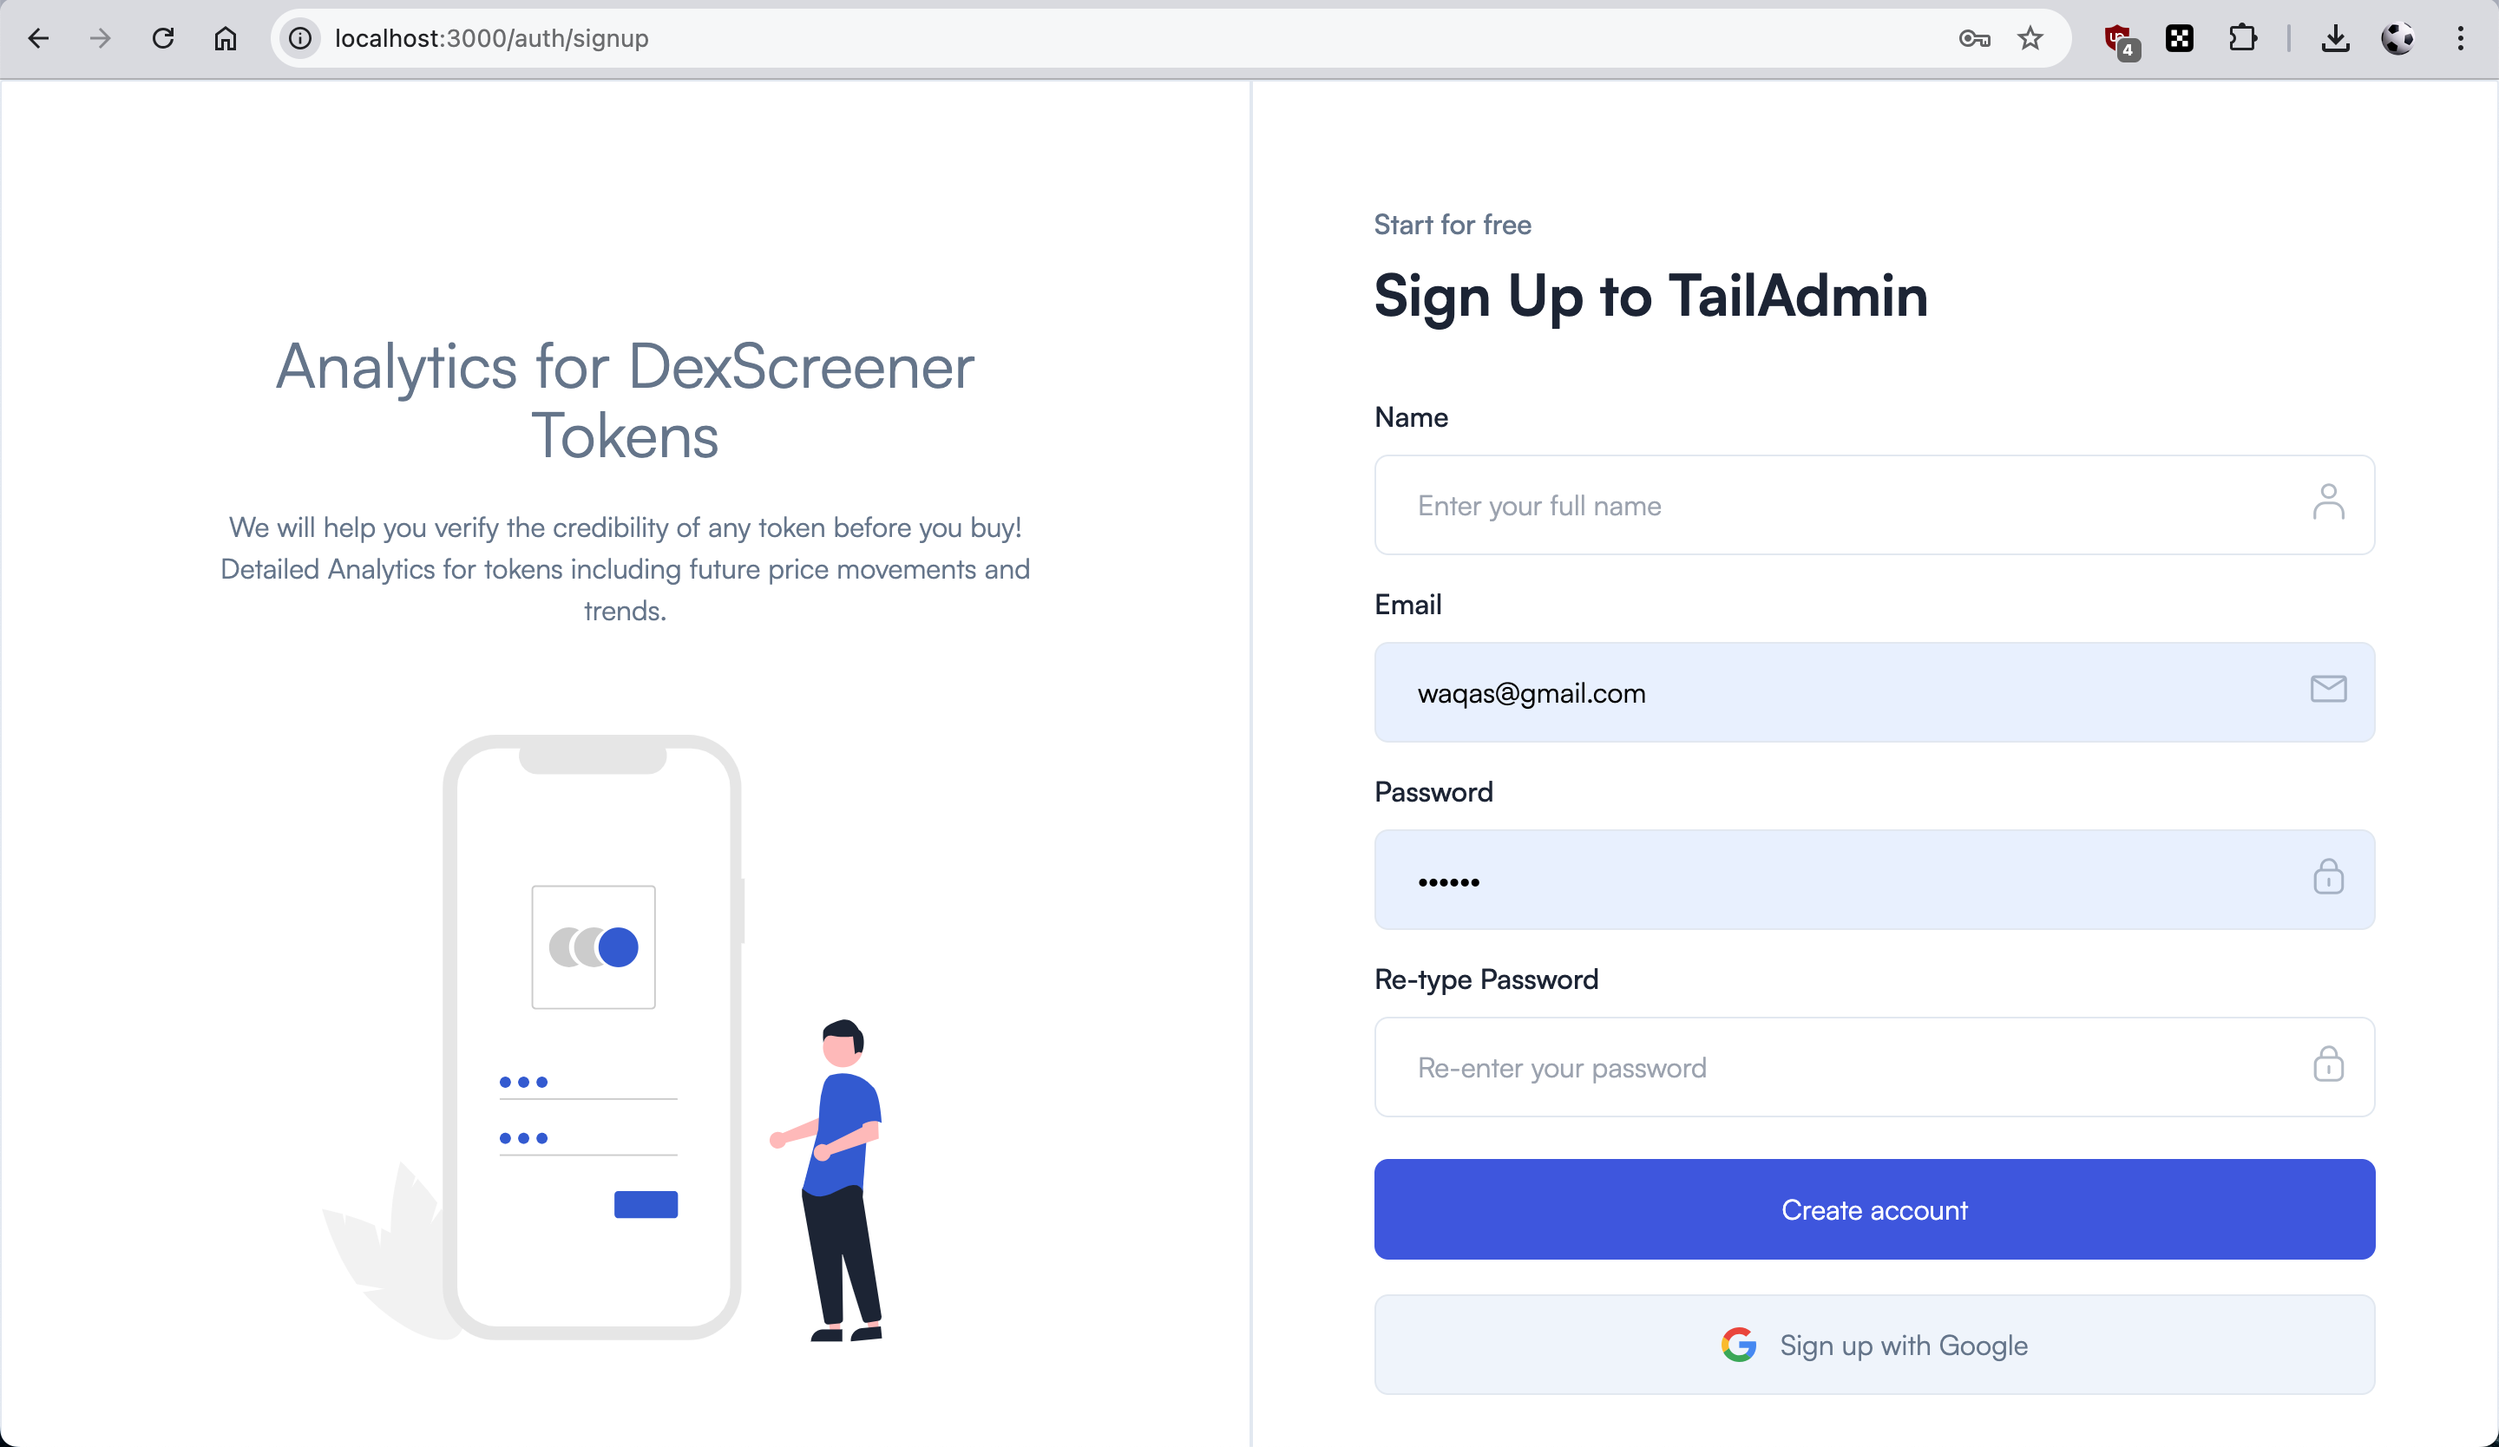
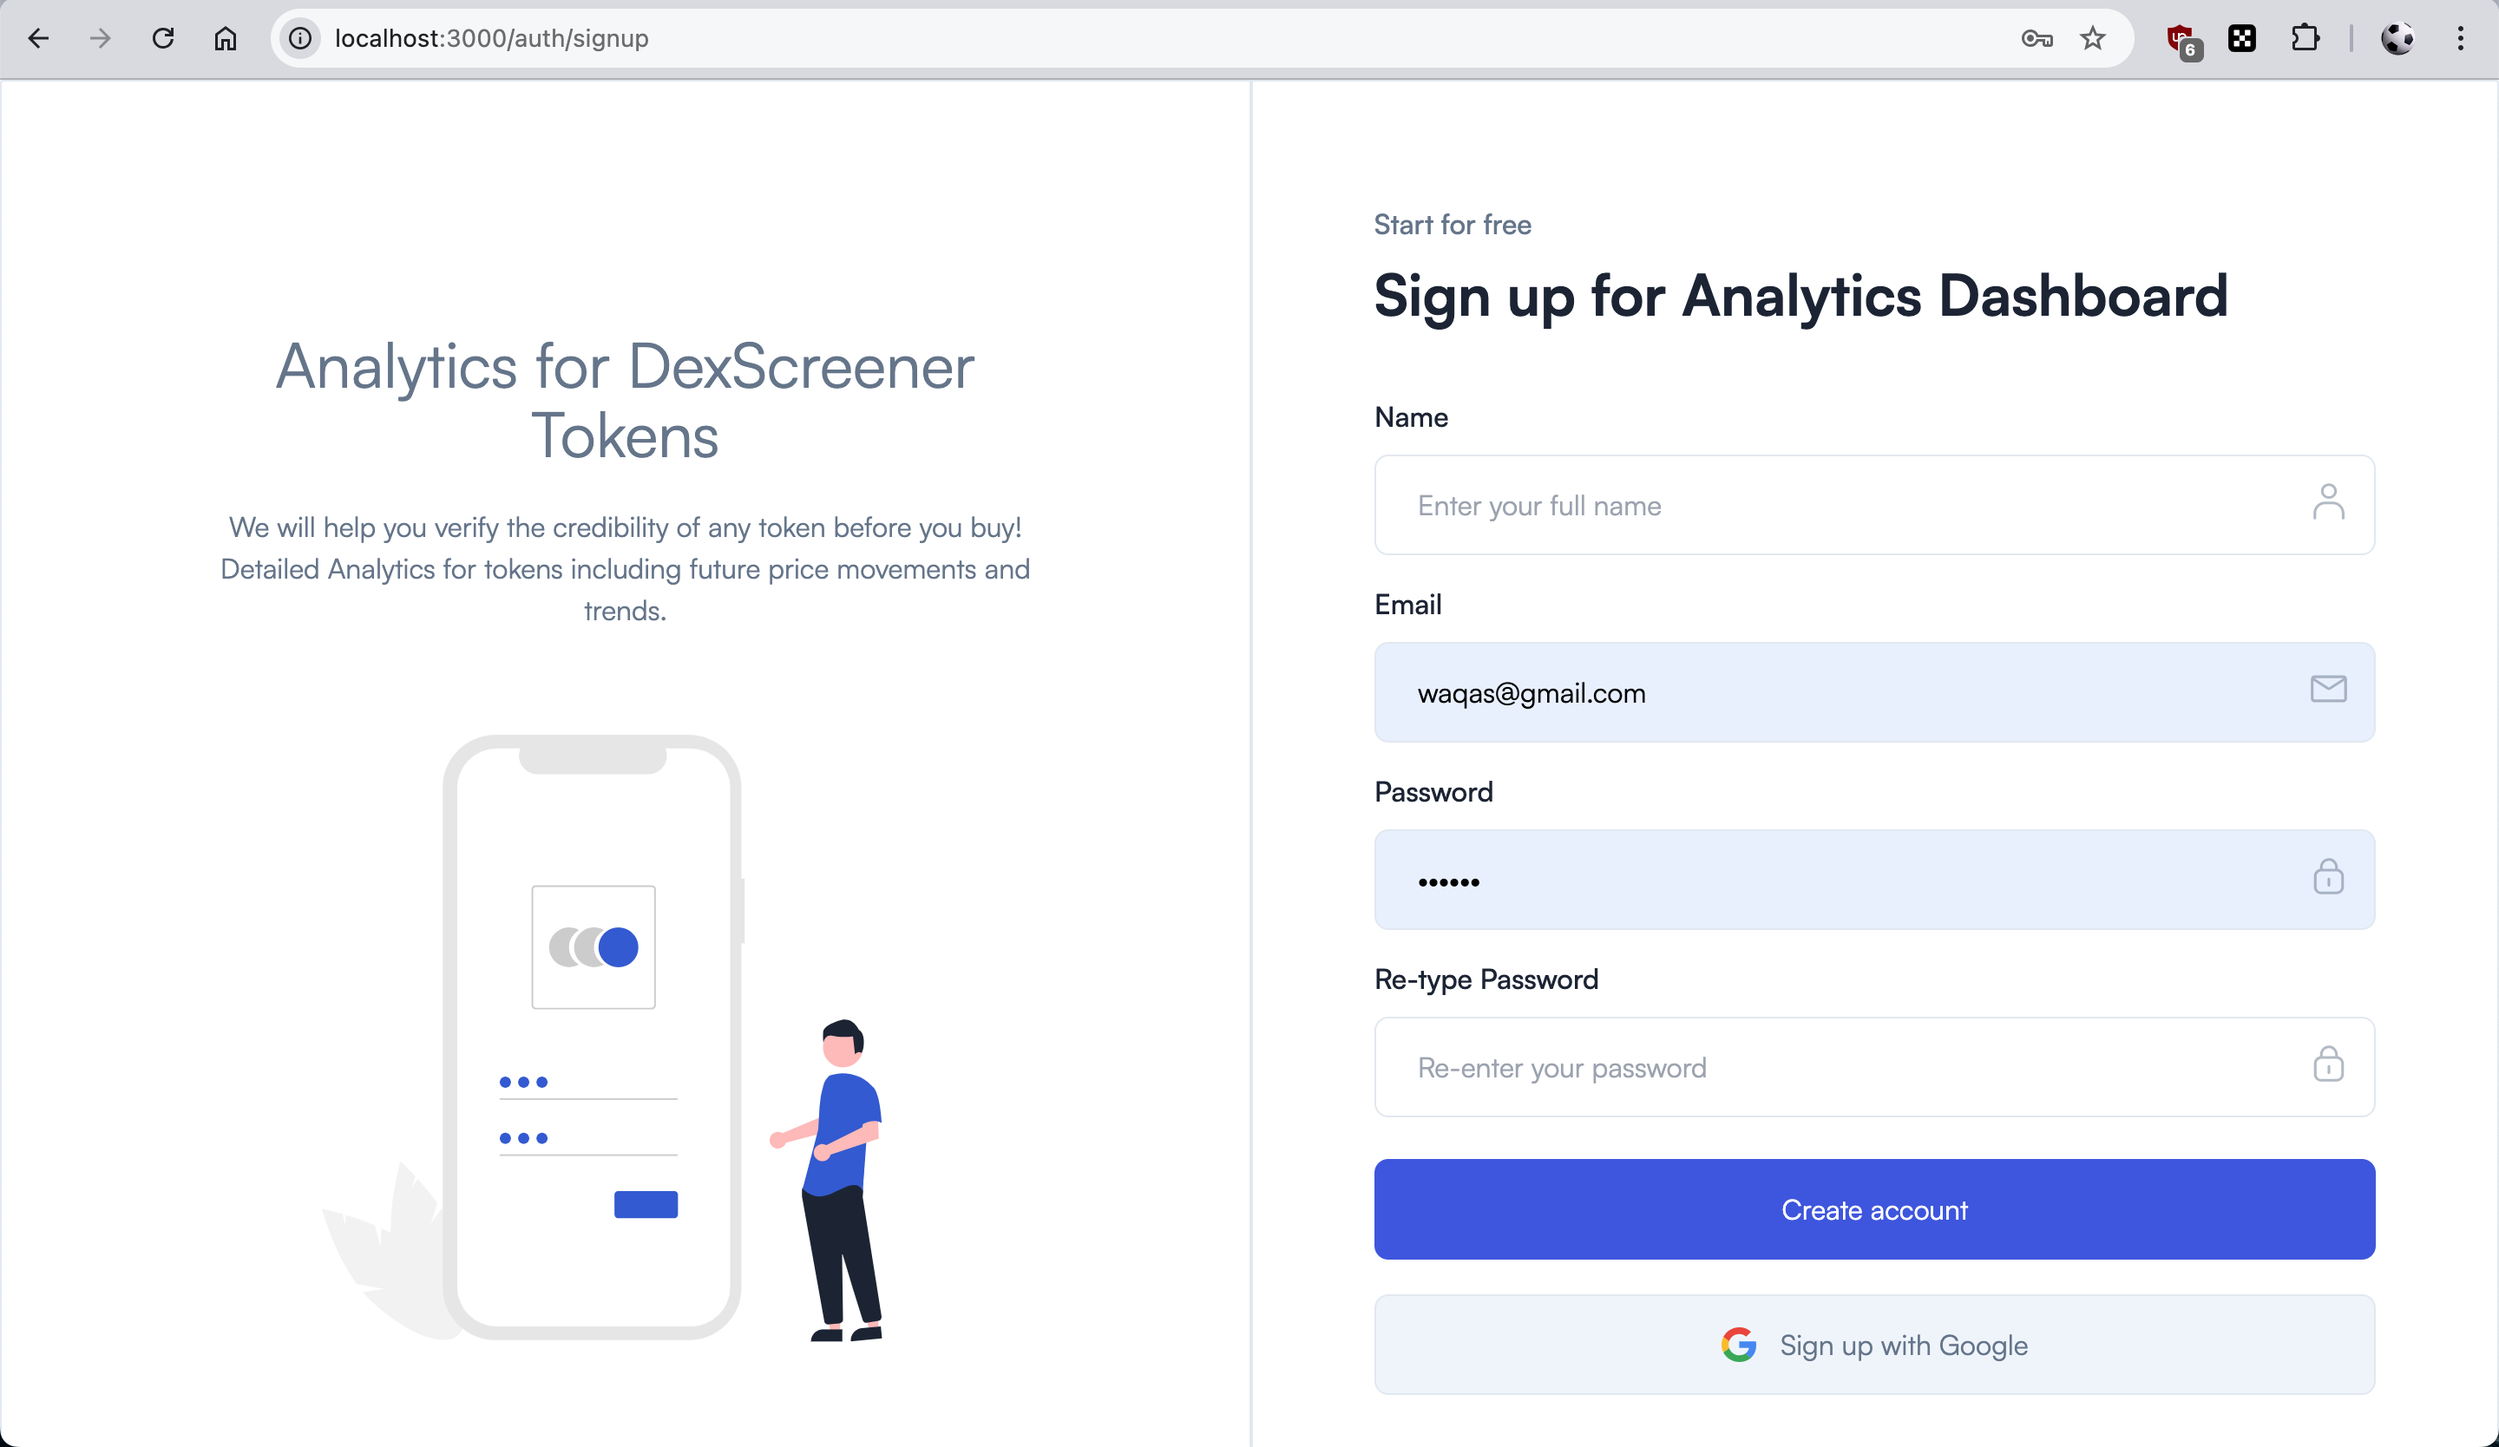
fixed broken image

Changed region(s): [[0.5938, 0.1871, 0.9062, 0.2182], [0.7812, 0.0, 0.9375, 0.0624]]

diff --git a/src/admin/pages/Authentication/SignUp.tsx b/src/admin/pages/Authentication/SignUp.tsx
@@ -148,7 +148,7 @@ const SignUp: React.FC = () => {
             <div className="w-full p-4 sm:p-12.5 xl:p-17.5">
               <span className="mb-1.5 block font-medium">Start for free</span>
               <h2 className="mb-9 text-2xl font-bold text-black dark:text-white sm:text-title-xl2">
-                Sign Up to TailAdmin
+                Sign up for Analytics Dashboard
               </h2>
 
               <form>
